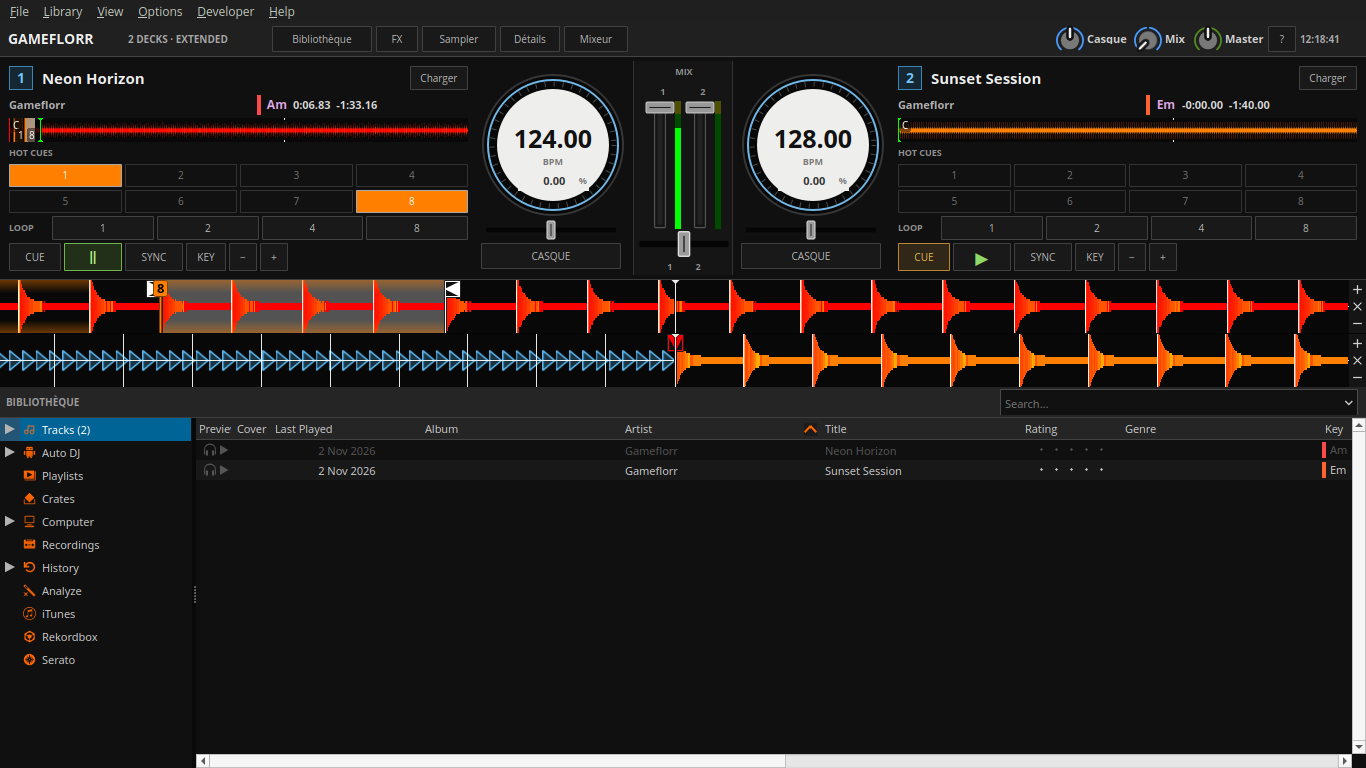
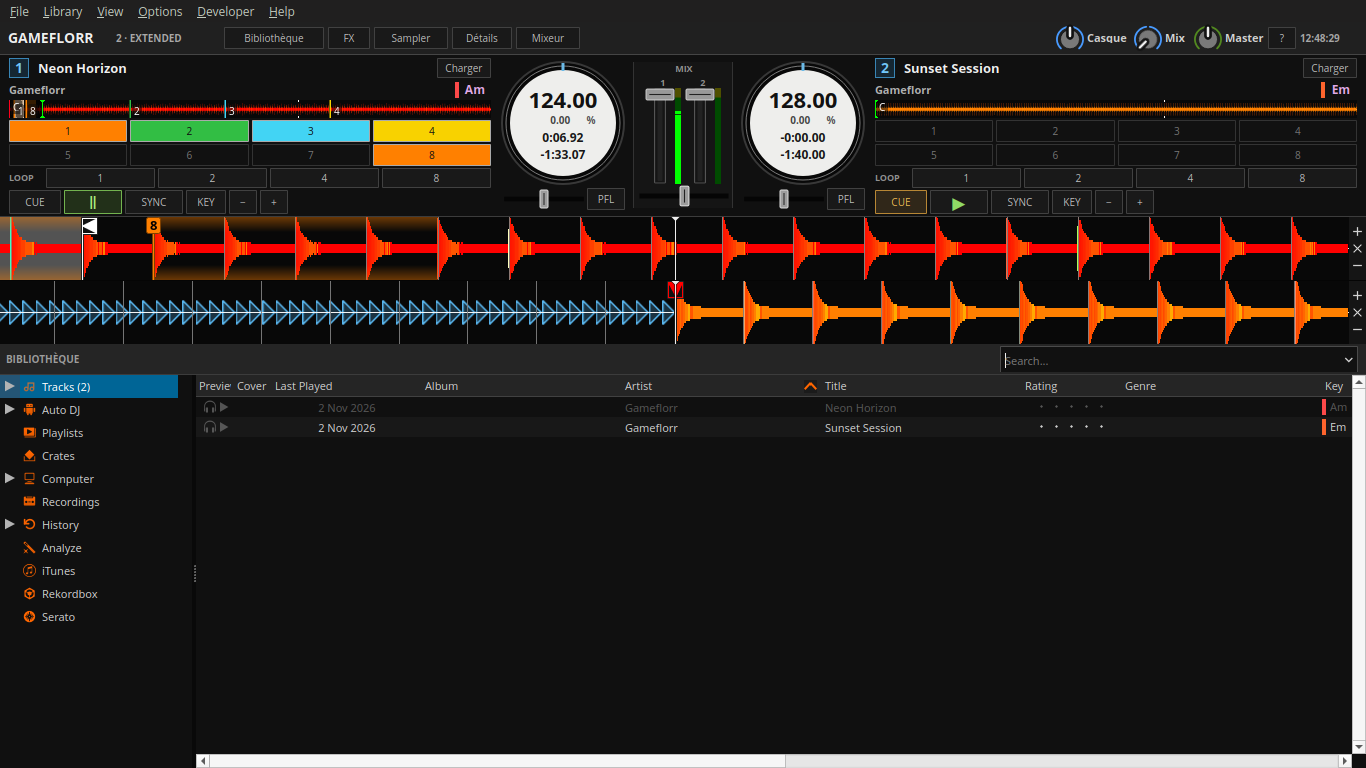
Compact Gameflorr Extended decks and integrate track times
Generated by Codex (AI), at the user's request.

Reduce deck height, integrate native time displays in the tempo dials,
and enlarge parallel waveforms while freeing library space. Use native
button display states and hotcue colors. Refresh the preview and guide.

Validated native Mixxx interactions at 1280x720 and 1366x768, file/XML
hooks, QSS checks, and Markdown lint. Hardware DJ testing is pending.

End of AI-generated text.

Changed region(s): [[0.0, 0.0312, 1.0, 0.875], [0.7687, 0.0312, 0.9224, 0.0938]]

diff --git a/docs/gameflorr-interface.md b/docs/gameflorr-interface.md
@@ -1,4 +1,4 @@
-Texte généré par Codex (IA).
+<!-- Texte généré par Codex (IA). -->
 
 # Interface Gameflorr
 
@@ -13,9 +13,9 @@ Dans **Préférences → Interface**, choisissez **Gameflorr** et appliquez. Une
 ## Charger, écouter, mixer
 
 1. Recherchez un morceau au-dessus de la bibliothèque. Sélectionnez sa ligne, puis cliquez sur **Charger** sur la platine 1 ou 2. Le glisser-déposer reste disponible.
-2. Activez **CASQUE** sur la platine à préparer. Réglez **Casque** et **Mix** dans la barre supérieure. Configurez la sortie casque dans **Préférences → Matériel sonore**.
-3. Utilisez **CUE**, **▶ / Ⅱ** et **SYNC**. **KEY** conserve la tonalité quand le tempo change. Le curseur sous le cadran ajuste le tempo ; les touches **− / +** le ralentissent ou l’accélèrent pendant le maintien. Le cadran affiche le BPM courant et la variation de tempo en pourcentage. C’est un affichage de tempo, sans animation de rotation ni commande de scratch ; les formes d’onde conservent leurs interactions natives.
-4. Les huit pads créent ou rappellent les hotcues selon le comportement Mixxx. Les boutons **1 / 2 / 4 / 8** activent ou quittent une boucle de ce nombre de temps.
+2. Activez **PFL** sur la platine à préparer. Réglez **Casque** et **Mix** dans la barre supérieure. Configurez la sortie casque dans **Préférences → Matériel sonore**.
+3. Utilisez **CUE**, **▶ / Ⅱ** et **SYNC**. **KEY** conserve la tonalité quand le tempo change. Le curseur sous le cadran ajuste le tempo ; les touches **− / +** le ralentissent ou l’accélèrent pendant le maintien. Le cadran affiche le BPM courant, la variation de tempo en pourcentage et le temps. Cliquez sur le temps pour alterner entre temps écoulé, temps restant et les deux, selon les préférences natives de Mixxx. C’est un affichage de tempo, sans animation de rotation ni commande de scratch ; les formes d’onde conservent leurs interactions natives.
+4. Les huit pads créent ou rappellent les hotcues selon le comportement Mixxx. Ils reprennent la couleur des repères dans les formes d’onde. Le clic droit permet de modifier leur couleur ; la coloration automatique des nouveaux hotcues se règle dans **Préférences → Couleurs**. Les boutons **1 / 2 / 4 / 8** activent ou quittent une boucle de ce nombre de temps.
 5. Les deux faders, les vumètres et le crossfader restent au centre dans la vue compacte. **Mixeur** affiche les gains, égaliseurs et filtres natifs. **Master** règle la sortie principale.
 
 ## Afficher davantage de commandes
